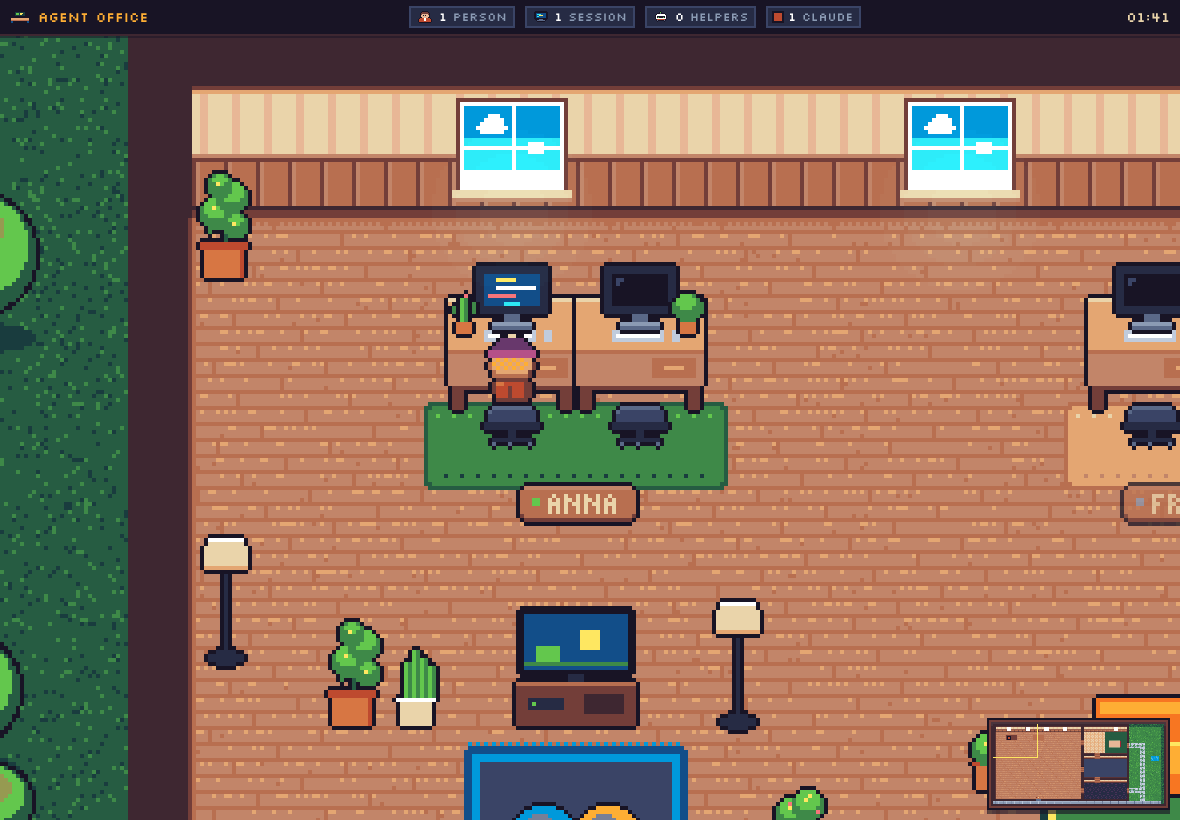
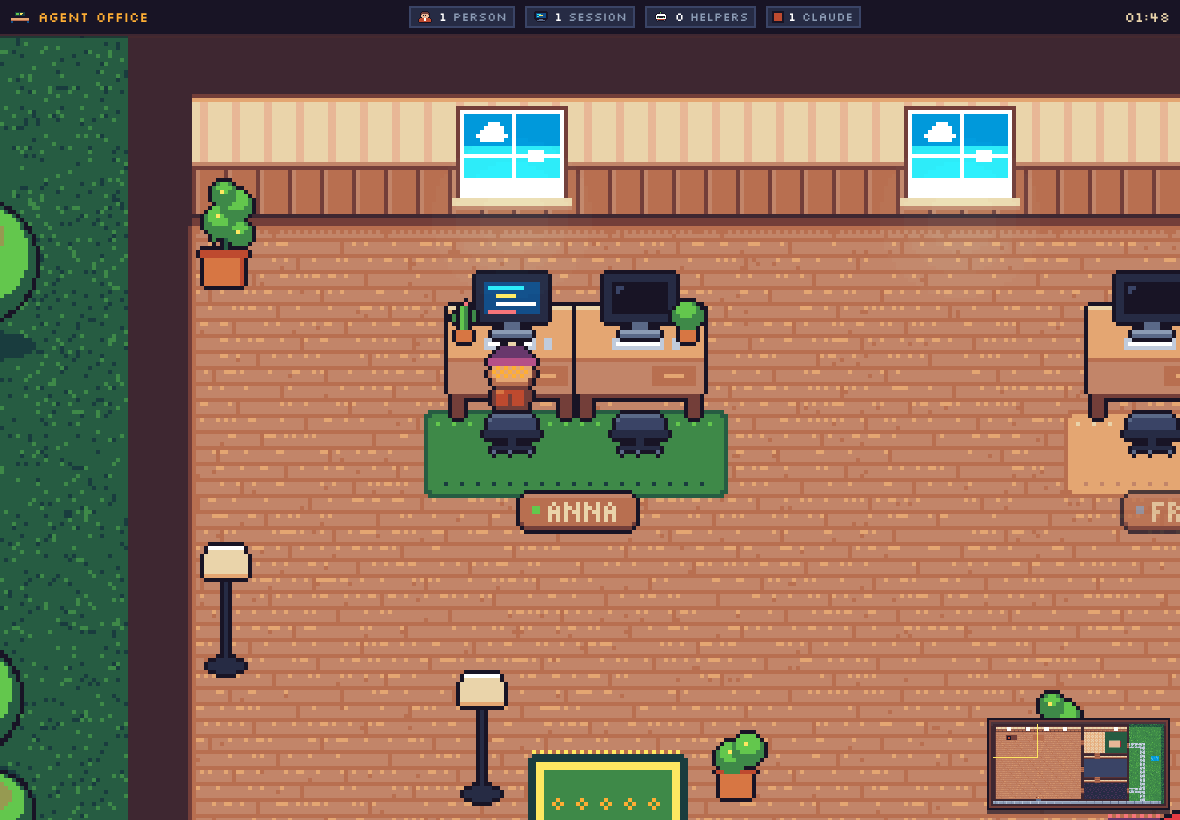
Renderer polish: growing pods, join moment, fit view, bubbles, focus fixes; regenerated screenshots
Claude-Session: https://claude.ai/code/session_01Dp6NR8vzwUGAWVpy6vVnNQ

diff --git a/apps/web/src/main.ts b/apps/web/src/main.ts
@@ -30,6 +30,7 @@ import {
   BASE_POD_ROWS,
   buildOfficeMap,
   POD_COLS,
+  podDeskSpan,
   podOrigin,
   podRowsFor,
 } from "./world/map.ts";
@@ -133,6 +134,8 @@ async function boot() {
   };
 
   let snapshotSeen = false;
+  /** runs after every message (e.g. a ?focus= waiting for its person to show up) */
+  let afterIngest = () => {};
   const ingest = (msg: ServerToViewer) => {
     const changes = model.apply(msg);
     ensureCapacity();
@@ -146,6 +149,7 @@ async function boot() {
     }
     hud.setStats(model.stats());
     living.poke();
+    afterIngest();
   };
 
   chars.onMoment = (m) => {
@@ -204,12 +208,22 @@ async function boot() {
   const focusPerson = (personId: string, zoom = 3) => {
     const p = model.people.get(personId);
     if (!p) return false;
+    // centre on the person's pod (its desks + chairs), whatever its size
+    const n = Math.max(2, scene.slotDesks(p.pod));
+    const span = podDeskSpan(p.pod, n);
     const o = podOrigin(p.pod);
-    camera.set({ x: (o.x + 4) * 16, y: (o.y + 2) * 16, zoom }, true);
+    camera.set({ x: span.x + span.w / 2, y: o.y * 16 + 30, zoom }, true);
     return true;
   };
   const focusParam = params.get("focus");
-  if (focusParam) focusPerson(focusParam, Number(zoomParam) || 3);
+  if (focusParam) {
+    // with a live server the snapshot arrives later: focus as soon as the person exists
+    const tryFocus = () => {
+      if (focusPerson(focusParam, Number(zoomParam) || 3)) afterIngest = () => {};
+    };
+    afterIngest = tryFocus;
+    tryFocus();
+  }
 
   if (kiosk) keepAwake();
   if (recorder) {

diff --git a/apps/web/src/world/characters.ts b/apps/web/src/world/characters.ts
@@ -243,8 +243,9 @@ export class CharacterManager {
     }
     if (changed.length === 0) return;
     const pois = new Set([...this.scene.map.pois, ...this.scene.nookPois]);
+    const map = this.scene.map;
     for (const c of this.chars.values()) {
-      if (c.poi && !pois.has(c.poi)) {
+      if (c.poi && (!pois.has(c.poi) || !map.isWalkable(c.poi.tile.x, c.poi.tile.y))) {
         // the nook they were lounging in became someone's pod
         this.releasePoi(c);
         if (c.mode === "poi" || c.mode === "walking") this.idleWander(c);
@@ -431,7 +432,10 @@ export class CharacterManager {
 
   private idleWander(c: SessionCharacter) {
     // mostly the coffee machine, lounge and garden (PLAN), sometimes a nook between pods
-    const free = (list: readonly Poi[]) => list.filter((p) => !this.poiTaken.has(p.id));
+    const map = this.scene.map;
+    // never a spot that furniture or a new pod now covers
+    const free = (list: readonly Poi[]) =>
+      list.filter((p) => !this.poiTaken.has(p.id) && map.isWalkable(p.tile.x, p.tile.y));
     const nooks = free(this.scene.nookPois);
     let pois = nooks.length > 0 && this.rand() < 0.25 ? nooks : free(this.scene.map.pois);
     if (pois.length === 0) pois = nooks;
